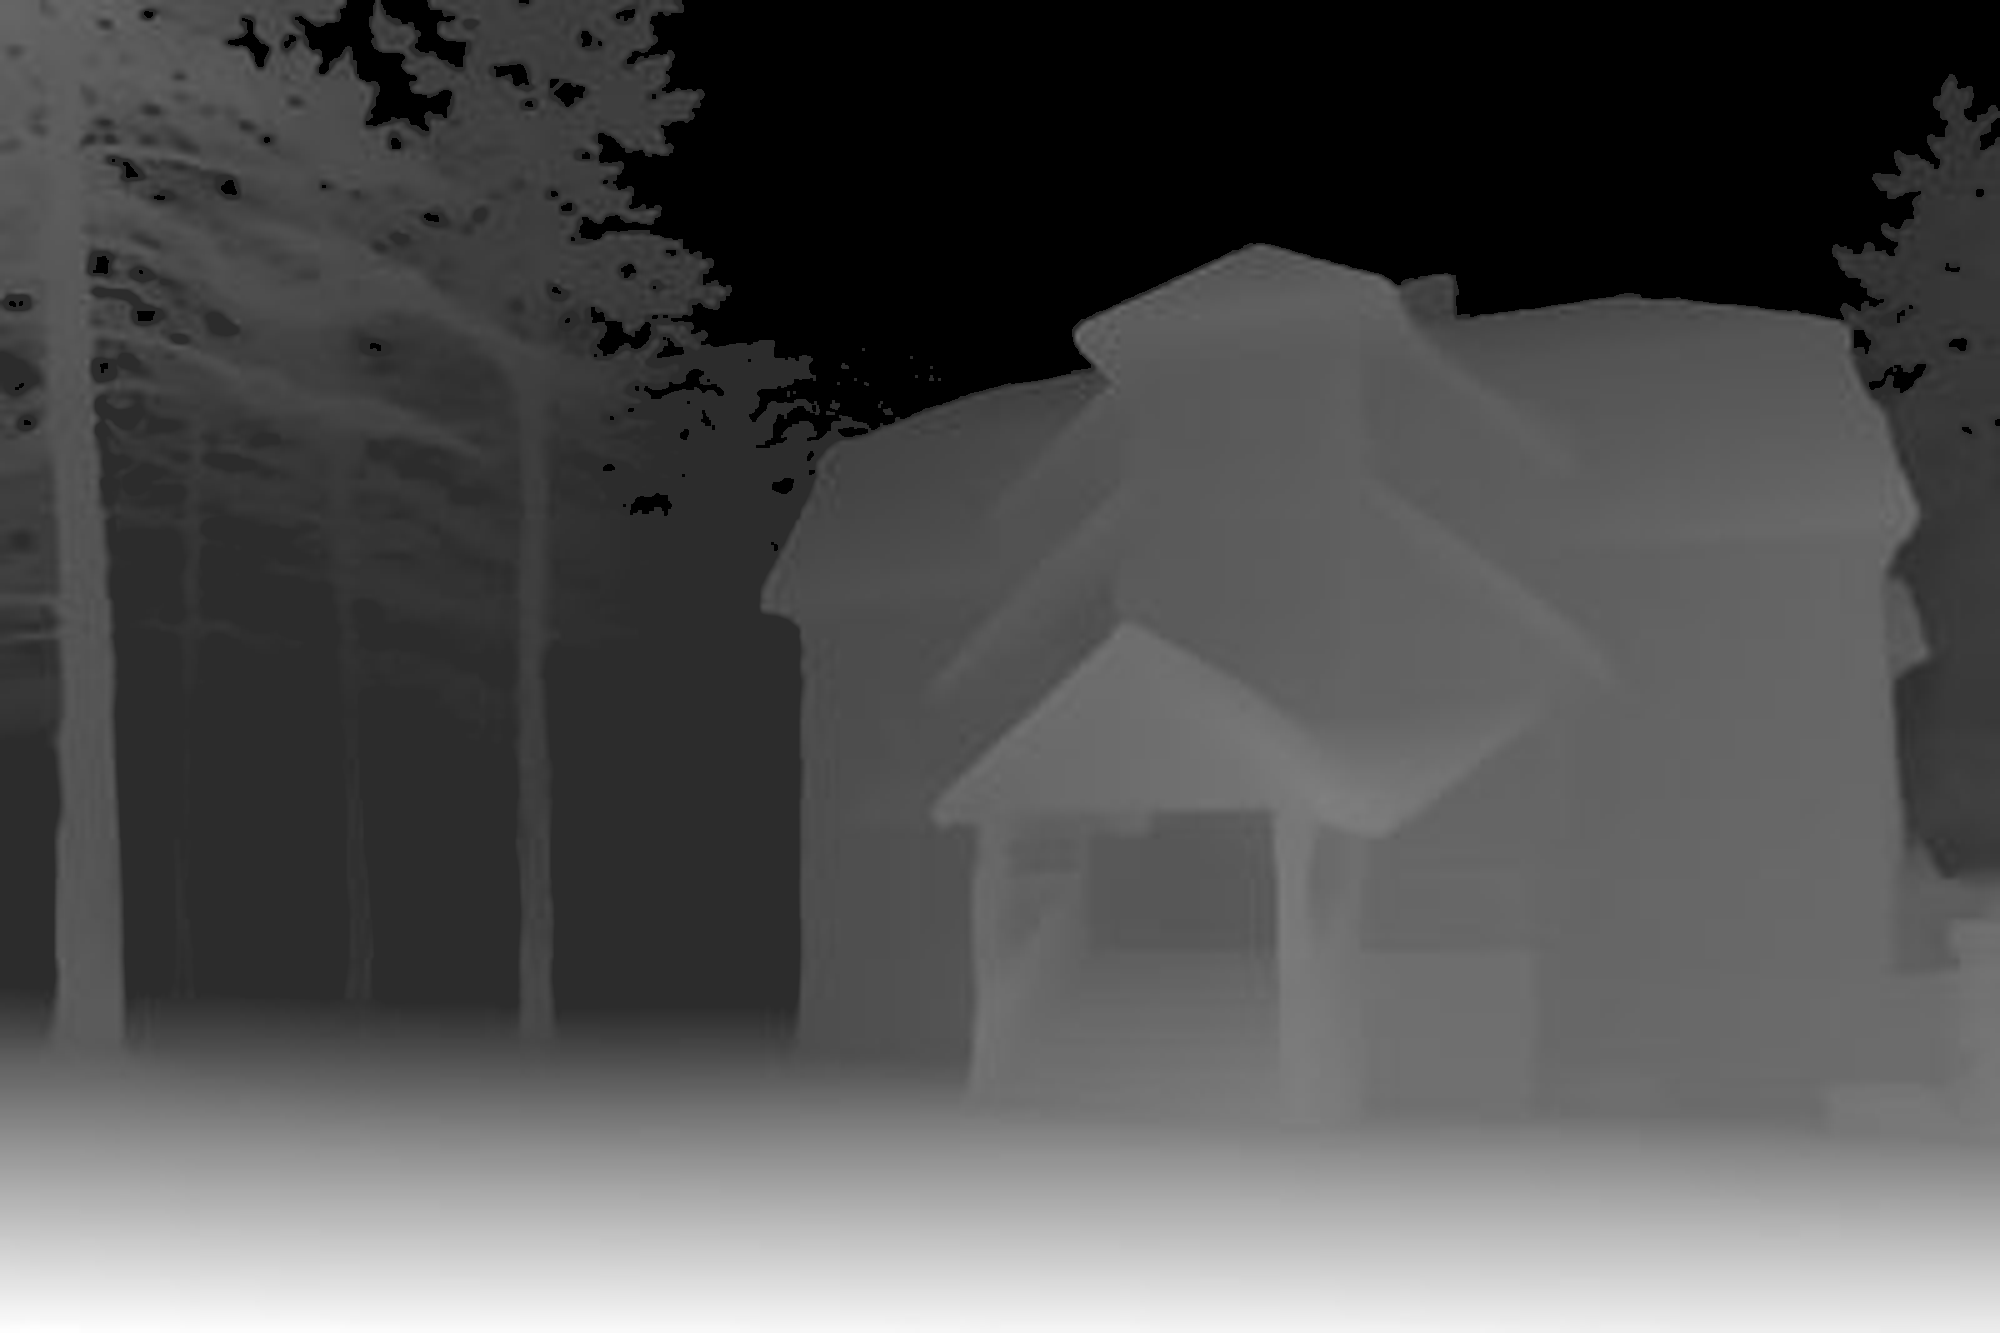
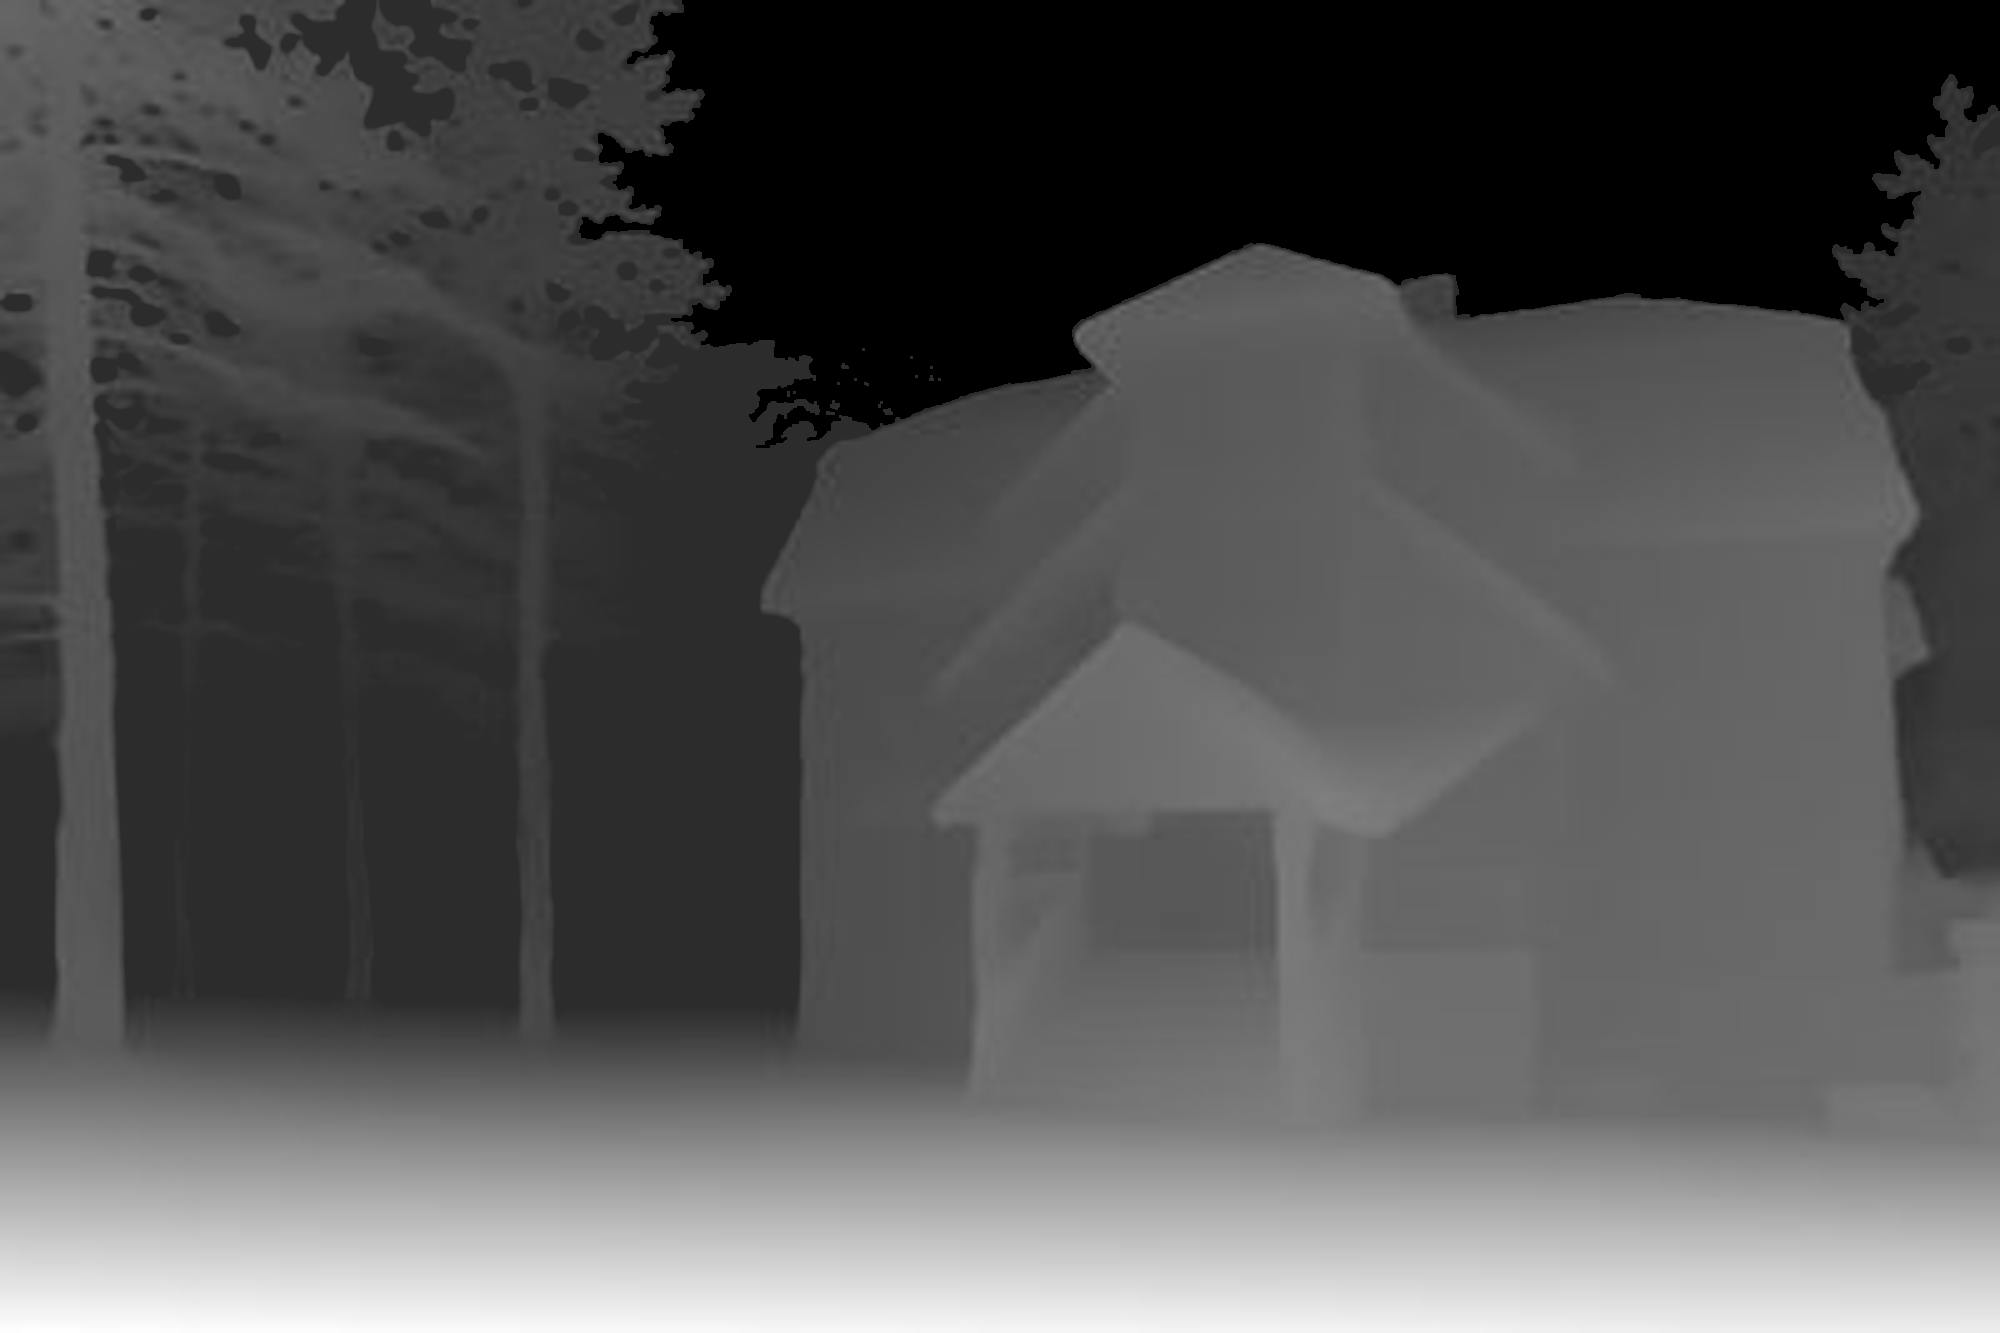
Ясное небо: без синих пятен в кронах сосен — просветы между ветвями убраны из маски неба

diff --git a/tools/sky-mask.py b/tools/sky-mask.py
@@ -18,6 +18,24 @@ for y in range(H):
         if (blue > 22 and b > 120) or cloud: S[x, y] = 255
 # убрать одиночные шумы и отступить от края кровли на пару пикселей
 sky = sky.filter(ImageFilter.MinFilter(5)).filter(ImageFilter.MaxFilter(3))
+# просветы неба между ветвями сосен — отдельные островки: при тонировке ясного неба они становились синими пятнами
+# в кронах (владелец, 11.11.2026). Небом считаем только крупные связные области (от 2% самой большой)
+K = sky.load(); seen = bytearray(W*H); comps = []
+for y0 in range(H):
+    for x0 in range(W):
+        if K[x0, y0] <= 127 or seen[y0*W + x0]: continue
+        st = [(x0, y0)]; seen[y0*W + x0] = 1; px = []
+        while st:
+            x, y = st.pop(); px.append((x, y))
+            for nx, ny in ((x+1, y), (x-1, y), (x, y+1), (x, y-1)):
+                if 0 <= nx < W and 0 <= ny < H and not seen[ny*W + nx] and K[nx, ny] > 127:
+                    seen[ny*W + nx] = 1; st.append((nx, ny))
+        comps.append(px)
+big = max((len(c) for c in comps), default=0)
+for c in comps:
+    if len(c) < big*.02:
+        for x, y in c: K[x, y] = 0
+print('островков неба убрано:', sum(1 for c in comps if len(c) < big*.02), 'из', len(comps))
 out = depth.copy(); O = out.load(); K = sky.load()
 for y in range(H):
     for x in range(W):

diff --git a/CLAUDE.md b/CLAUDE.md
@@ -104,7 +104,7 @@
   - **Точки на фото** — объект `PHOTO` в координатах исходника 2000×1333: труба `chimney`, потолок крыльца `porch`. При смене фото — пересчитать.
   - **Дым из трубы** (всегда), сносится реальным ветром.
   - **Тёплый свет** в дождь, мокрый снег, сильный снег, метель, грозу (канвас `#fxWin`, рисуется один раз, плавно появляется прозрачностью): только крыльцо, освещённое лампой под потолком. **Свет в окнах (больших и подвальных) и светящуюся гирлянду владелец отверг** — не возвращать, пока нет способа сделать по-настоящему реалистично.
-  - **Ясное небо**: в ясно (80%) и переменную облачность (40%) небо на фото (по маске неба) мягко тонируется в глубокий голубой — канвас `#fxSky`, строится один раз, проявляется за 3 с. Не мультяшно: только цвет, без анимаций.
+  - **Ясное небо** (просветы между ветвями сосен в маску не входят — `sky-mask.py` оставляет только крупные связные области неба, иначе в кронах были синие пятна, 11.11.2026): в ясно (80%) и переменную облачность (40%) небо на фото (по маске неба) мягко тонируется в глубокий голубой — канвас `#fxSky`, строится один раз, проявляется за 3 с. Не мультяшно: только цвет, без анимаций.
   - **Молния**: разряд сбоку по небу, вспышка освещает фасад, зарница — только в небе.
   - Палец/курсор разгоняет снег; параллакс при прокрутке; снег оседает на верхнем крае панели; капли на стекле панели в дождь (крупные стекают рывками «слезой», вбирают мелкие, оставляют высыхающую мокрую дорожку); иней на панели (канвас `#hpFx`): перистые кристаллы и матовая изморозь из случайных «зародышей» (углы — не все, плюс 1–3 места у краёв по бокам, середина с текстом чистая), у каждого своя сила и задержка роста; после оттаивания рисунок новый; от −10° — в полную силу, в снегопад при минусе — лёгкий.
   - Направление ветра: фасад смотрит на юг (~187°, владелец проверил по панораме Яндекс Карт), камера снимает его наискосок — на северо-северо-запад, ~335° (`CAM` рядом с `LAT`/`LON`), восток справа, запад слева. При смене фото обложки — поправить `CAM`.
